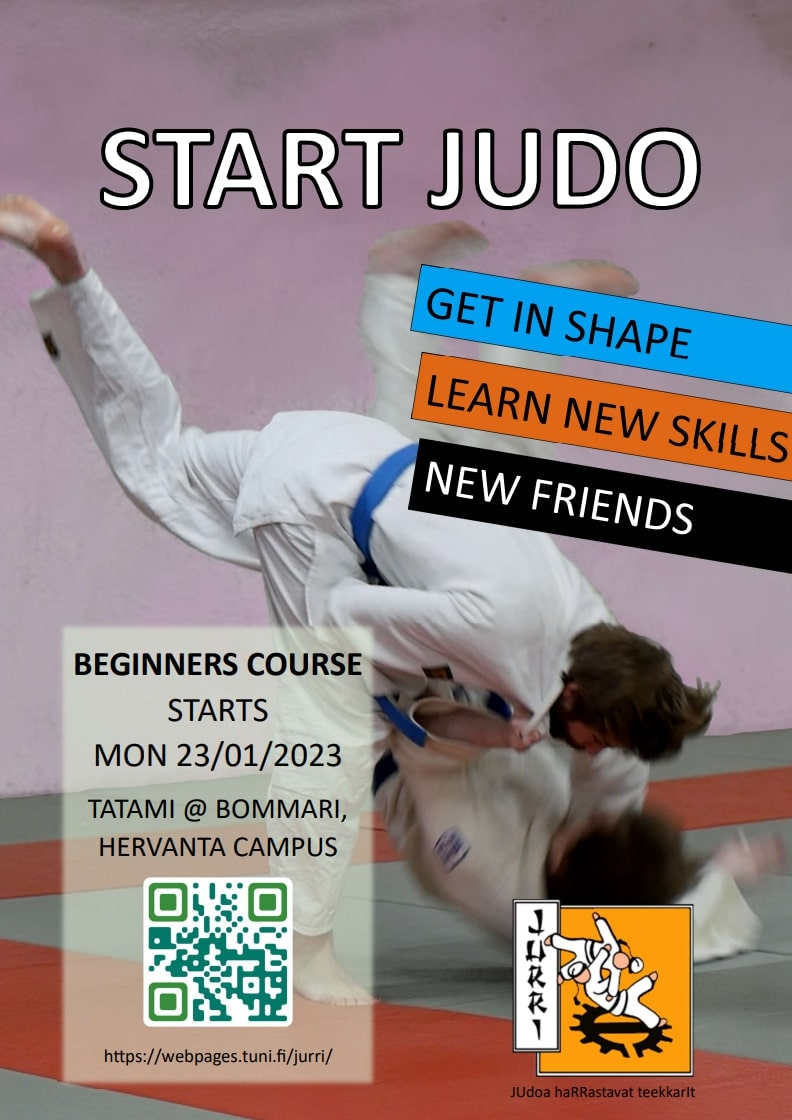
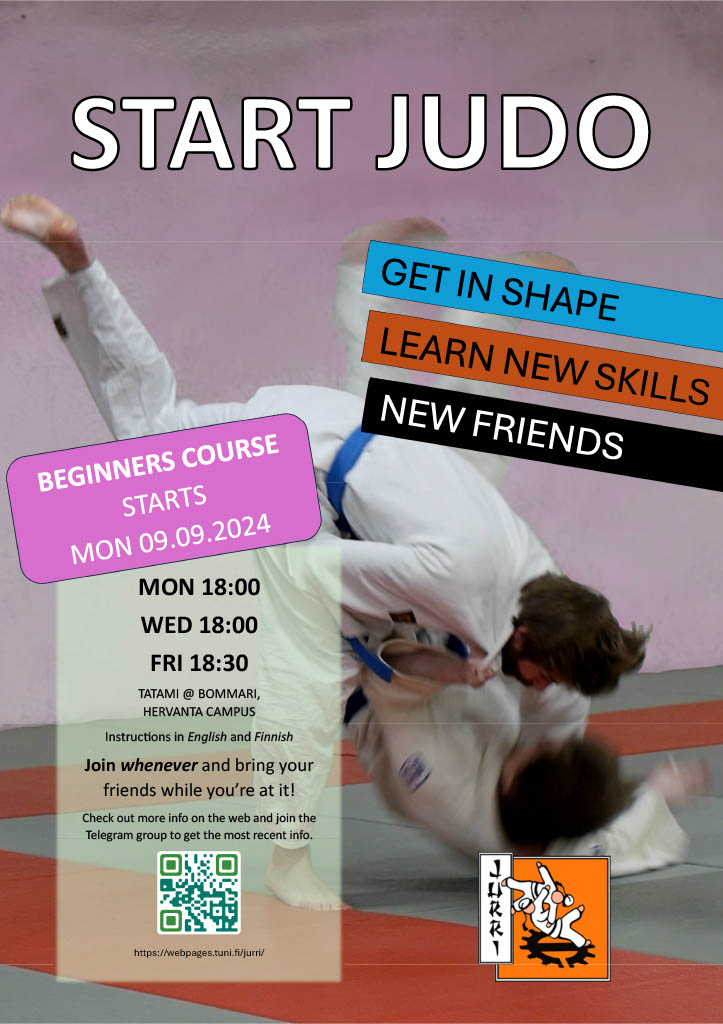
Updated info about fall 2024 courses

diff --git a/templates/index/kurssimainos.html b/templates/index/kurssimainos.html
@@ -1,94 +1,88 @@
-<img class="en" src="static/images/start_judo_en.jpg" alt="Kurssimainos">
-<img class="fi" src="static/images/start_judo_fi.jpg" alt="Kurssimainos">
+<img class="en" src="static/images/start_judo_en.jpg" alt="Kurssimainos" />
+<img class="fi" src="static/images/start_judo_fi.jpg" alt="Kurssimainos" />
 <div class="column">
-    <div class="en">
-        <h1>JURRI will organize a Judo beginner's course in spring 2023</h1>
-        <p>
-            Judo is a fun and versatile sport,
-            that becomes a life.long hobby for many.
-            Judo suits everyone from an absolute beginner to an olympic athlete.
-        </p>
-        <p>
-            The practise location os the Bommari tatami on Hervanta campus.
-            Practise sessions are on mondays and wednesdays at 18:00 &ndash; 19:30.
-        </p>
-        <p>
-            <strong>As a special offer, the beginner's course is free to all members (so 5 &euro;)!</strong>
-            Additionally, the SportUni membership for the spring semester must be paid.
-            At some point judogis will also be bought.
-            If you want to take part in the belt exam,
-            the Finnish Judo Federation lisence must be bought (110 &euro;).
-            The lisence includes a Judo insurance.
-        </p>
-        <p>
-            The first practise session is on monday, January 23rd,
-            but you are welcome to join even after that date.
-            You will want to wear a T-shirt and sweatpants,
-            and also bring a water bottle.
-            A guide to accessing the tatami can be found further down the page.
-        </p>
-        <p>
-            <strong>Notice!</strong>
-            If you do not have access rights to the Hervanta campus,
-            update them at an info desk before the practise session.
-            You will need them to access the tatami.
-        </p>
-        <p>
-            Start a new hobby in a student group! See you on the tatami!
-        </p>
-        <p>
-            Also join the JURRI telegram group.
-        </p>
-    </div>
+  <div class="en">
+    <h1>JURRI will organize a Judo beginner's course in atumn 2024</h1>
+    <p>
+      Judo is a diverse sport which many have found a lifelong hobby in.
+      Grappling improves your body control and is a fun way to get in shape.
+      Judo is famous for its throwing techniques but the grappling also extends
+      to the mat.
+    </p>
+    <p>
+      In the <strong>beginners’ course</strong> you'll learn some basic
+      techniques of judo starting with the safe way to fall. At the end of the
+      course you'll know a few throws and some ground techniques, and you are
+      starting to get the hang of the dynamics of grappling. With the
+      <strong>more advanced judokas</strong> we'll focus on finding your own
+      grip, technique and strategy as well as technique combinations.
+    </p>
+    <p>
+      To attend you will need a t-shirt, sweatpants and a water bottle. A judo
+      suit (judogi) is recommended down the line as we'll advance in the
+      grappling exercises.
+    </p>
+    <p><strong>Price:</strong> 20 € including JURRI’s membership fee</p>
+    <p>
+      In order to get to the tatami you will need access rights to Hervanta
+      campus and need to have paid the SportUni fee.
+    </p>
+    <p>
+      <strong>No sign up needed!</strong> Just show up, preferably with a
+      friend. The classes will run throughout Autumn.
+      <strong> First class 9th September 2024 </strong>
+      but feel free to join on a later date if you can’t quite make it then.
+    </p>
+    <p>
+      Join our training group on Telegram and let us know you’re coming or to
+      ask further questions:
+    </p>
+  </div>
 
-    <div class="fi">
-        <h1>JURRI järjestää judon alkeiskurssin keväällä 2023</h1>
-        <p>
-            Judo on hauska ja monipuolinen urheilulaji,
-            josta moni saa elämän mittaisen harrastuksen.
-            Judo on oiva paikka kaiken tasoisille aivan liikunnan vasta-alkajista olympiaurheilijoihin.
-        </p>
-        <p>
-            Treenipaikkana on Hervannan kampuksen Bommarin tatami,
-            ja treenit ovat maanantaisin ja keskiviikkoisin klo. 18.00 &ndash; 19.30.
-        </p>
-        <p>
-            <strong>Erikoistarjouksena kurssin saa nyt jäsenmaksun (5 &euro;) hinnalla!</strong>
-            Lisäksi tulee olla maksettuna SportUnin liikuntamaksu keväälle.
-            Jossain kohtaa hankitaan toki myös judopuku eli judogi.
-            Jos haluaa suorittaa vyökokeen kevään lopulla,
-            täytyy olla hankittuna myös Judoliiton lisenssi (110 &euro;).
-            Lisenssi sisältää myös tapaturmavakuutuksen.
-            Vyökoetta suorittaen pitää myös hankkia judopassi.
-        </p>
-        <p>
-            Ensimmäiset harjoitukset ovar maanantaina 23. tammikuuta,
-            mutta saavu ihmeessä myöhemminkin,
-            vaikket juuri silloin pääsisi.
-            Varustukena ensimmäisiin treeneihin T-paita, verkkarit
-            sekä juomapullo.
-            Nappaa ihmeessä mukaan myös kaveri!
-            Ohjeet tatamin löytämiseen löydät alempaa.
-        </p>
-        <p> <strong>Huom!</strong> Jos sinulla ei ole vielä Hervannan kulkuoikeuksia,
-            käy päivittämässä ne Tamppi-areenalla ennen treenejä.
-            Tarvitset ne päästäksesi tatamialueelle.
-        </p>
-        <p>
-            Aloita uusi hyvä harrastus opiskelijaporukassa! Tatamilla nähdään!
-        </p>
-        <p>
-            Liity ihmeessä jo nyt myös JURRIn treeniryhmään Telegramissa tai kysy lisää:
-        </p>
-    </div>
+  <div class="fi">
+    <h1>JURRI järjestää judon alkeiskurssin syksyllä 2024</h1>
+    <p>
+      Judo on monipuolinen urheilulaji, josta moni saa elämän mittaisen
+      harrastuksen. Kamppailu on paitsi hauskaa myös kuntoa ja kehonhallintaa
+      kehittävää. Judon tunnistettavin piirre ovat erilaiset heitot. Niiden
+      lisäksi väännetään myös matossa.
+    </p>
+    <p>
+      <strong>Alkeiskurssilla</strong> opetellaan judon perustekniikoita
+      turvallisesta kaatumisesta alkaen. Kurssin päätteeksi hallitset muutamia
+      pysty- ja mattotekniikoita sekä hahmotat paremmin kamppailun dynamiikkaa.
+    </p>
+    <p>
+      <strong>Edistyneiden</strong> kanssa syvennytään tarkemmin oman otteen,
+      tekniikan ja taktiikan löytämiseen sekä kombinaatioihin.
+    </p>
+    <p>
+      Treeneihin tarvitset sisäliikuntavaatteet ja vesipullon. Judopuvun
+      (judogi) hankkiminen jossain kohtaa kurssia on suositeltavaa
+      kamppailuharjoitteiden edetessä.
+    </p>
+    <p><strong>Hinta:</strong> 20 € sisältäen JURRIn jäsenyyden.</p>
+    <p>
+      Tatamille päästäksesi tarvitset Hervannan kulkuoikeudet sekä maksetun
+      SportUnin liikuntamaksun.
+    </p>
+    <p>
+      <strong>Ei ennakkoilmoittautumista</strong>; saavu vain paikalle ja
+      mieluiten kaverin kanssa. Treenit jatkuvat läpi syksyn.
+      <strong>Ensimmäiset treenit 9. syyskuuta 2024</strong>, mutta saavu toki
+      myöhemminkin, jos et heti ehdi mukaan.
+    </p>
+    <p>
+      Liity ihmeessä jo nyt myös JURRIn treeniryhmään Telegramissa ja kerro
+      tulostasi tai kysy lisää:
+    </p>
+  </div>
 
-    <div id="tg-link">
-        <a href="https://t.me/+WwmkMDHkiG43ZTlk">
-            <img src="static/images/telegram-qr.jpg"
-                 alt="Telegram-linkki"
-            >
-        <p class="en">Click on the picture!</p>
-        <p class="fi">Klikkaa kuvaa!</p>
-        </a>
-    </div>
+  <div id="tg-link">
+    <a href="https://t.me/+WwmkMDHkiG43ZTlk">
+      <img src="static/images/telegram-qr.jpg" alt="Telegram-linkki" />
+      <p class="en">Click on the picture!</p>
+      <p class="fi">Klikkaa kuvaa!</p>
+    </a>
+  </div>
 </div>

diff --git a/templates/index/kulkuohje.html b/templates/index/kulkuohje.html
@@ -1,58 +1,59 @@
 <div class="column">
-    <h1 class="en">Guide to accessing the tatami</h1>
-    <h1 class="fi">Kulkuohje tatamille</h1>
-    <ol>
-        <li>
-            <p class="en">
-                You will need access permissions to the Hervanta campus and Bommari.
-                Make sure that you have paid the SportUni membership fee,
-                and visit the Tamppi Areena info desk to get access permissions to the tatami.
-                You must also visit some of the other info desks to get the access permissions to Rakennustalo.
-                It is possible to pay the SportUni membership free at the Tamppi Areena info desk,
-                if you have not already paid it.
-            </p>
-            <p class="fi">
-                Tarvitset kulkuoikeudet Hervannan kampukselle ja Bommariin.
-                Varmista että olet maksanut SportUnin liikuntamaksun kleväälle
-                ja käy Tamppi Areenalla (myös Hervannan kampuksella) pyytämässä päivitystä kulkuoikeuksiisi tatamia varten.
-                Areenan tiskillä on mahdollista myös maksaa liikuntamaksu,
-                mikäli et ole sitä vielä tehnyt.
-            </p>
-        </li>
-        <li>
-            <p class="en">Step into Rakennustalo.</p>
-            <p class="fi">Astu sisään Rakennustaloon.</p>
-            <img alt="Rakennustalon etuovi" src="static/images/kulkuohje/1.jpg">
-        </li>
-        <li>
-            <p class="en">Turn left, walk through the glass doors, and take an elevator to the V-floor.</p>
-            <p class="fi">Käänny välittömästi vasemmalle. Kulje lasiovista ja ota hissi V-kerrokseen.</p>
-            <img alt="Rakennustalon aula" src="static/images/kulkuohje/2.jpg">
-        </li>
-        <li>
-            <p class="en">Swipe your card to the reader and head down.</p>
-            <p class="fi">Vilauta korttia lukijaan ja suuntaa alas.</p>
-            <img alt="Rakennustalon etuovi" src="static/images/kulkuohje/3.jpg">
-        </li>
-        <li>
-            <p class="en">
-                Upon arriving the the floorball fields,
-                you will see the door to tatami in the far wall,
-                behind the floorball fields.
-                Swipe your card in the reader at the door.
-                The door is rather stiff; pull firmly.
-            </p>
-            <p class="fi">
-                Saavuttuasi sählykentille näet tatamin oven peränurkassa kenttien takana.
-                Ovella tarvitsee taas vilauttaa korttia.
-                Ovi on melko jäykkä; vedä tomerasti.
-            </p>
-            <img alt="Rakennustalon etuovi" src="static/images/kulkuohje/4.jpg">
-        </li>
-        <li>
-            <p class="en">You are there when it looks something like this.</p>
-            <p class="fi">Olet perillä kun alkaa näyttää tältä.</p>
-            <img alt="Rakennustalon etuovi" src="static/images/kulkuohje/5.jpg">
-        </li>
-    </ol>
+  <h1 class="en">Guide to accessing the tatami</h1>
+  <h1 class="fi">Kulkuohje tatamille</h1>
+  <ol>
+    <li>
+      <p class="en">
+        You will need access permissions to the Hervanta campus and Bommari.
+        Make sure that you have paid the SportUni membership fee, and visit the
+        Tamppi Areena info desk to get access permissions to the tatami. You
+        must also visit some of the other info desks to get the access
+        permissions to Rakennustalo. It is possible to pay the SportUni
+        membership free at the Tamppi Areena info desk, if you have not already
+        paid it.
+      </p>
+      <p class="fi">
+        Tarvitset kulkuoikeudet Hervannan kampukselle ja Bommariin. Varmista
+        että olet maksanut SportUnin liikuntamaksun kleväälle ja käy Tamppi
+        Areenalla (myös Hervannan kampuksella) pyytämässä päivitystä
+        kulkuoikeuksiisi tatamia varten. Areenan tiskillä on mahdollista myös
+        maksaa liikuntamaksu, mikäli et ole sitä vielä tehnyt.
+      </p>
+    </li>
+    <li>
+      <p class="en">
+        The elevator to Bommari is located in Rakennustalo (inbetween Sähkötalo
+        and Main building while traversing indoors). Take the elevator down to
+        floor V.
+      </p>
+      <p class="fi">
+        Hissi Bommariin on Rakennustalossa (Sähkötalon ja Päärakennuksen välissä
+        sisäkautta kuljettuna). Laskeudu hissillä V-kerrokseen.
+      </p>
+      <img alt="The elevator" src="static/images/kulkuohje/0.jpg" />
+    </li>
+    <li>
+      <p class="en">Swipe your card to the reader and head down.</p>
+      <p class="fi">Vilauta korttia lukijaan ja suuntaa alas.</p>
+      <img alt="Card reader" src="static/images/kulkuohje/3.jpg" />
+    </li>
+    <li>
+      <p class="en">
+        Upon arriving the the floorball fields, you will see the door to tatami
+        in the far wall, behind the floorball fields. Swipe your card in the
+        reader at the door. The door is rather stiff; pull firmly.
+      </p>
+      <p class="fi">
+        Saavuttuasi sählykentille näet tatamin oven peränurkassa kenttien
+        takana. Ovella tarvitsee taas vilauttaa korttia. Ovi on melko jäykkä;
+        vedä tomerasti.
+      </p>
+      <img alt="Floorball fields" src="static/images/kulkuohje/4.jpg" />
+    </li>
+    <li>
+      <p class="en">You are there when it looks something like this.</p>
+      <p class="fi">Olet perillä kun alkaa näyttää tältä.</p>
+      <img alt="Tatami" src="static/images/kulkuohje/5.jpg" />
+    </li>
+  </ol>
 </div>

diff --git a/templates/base.html b/templates/base.html
@@ -41,7 +41,6 @@
                     <h1 class="en">Social media</h1>
                     <h1 class="fi">Sosiaalinen media</h1>
                     <a id="telegram-link" href="https://t.me/+WwmkMDHkiG43ZTlk"></a>
-                    <a id="instagram-link" href="https://www.instagram.com/jurri_tuni/"></a>
                 </section>
             </div>
             <hr>
